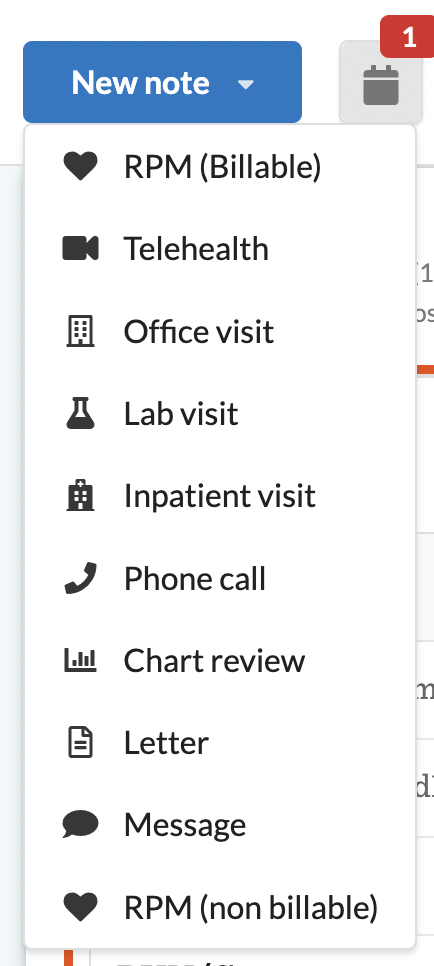
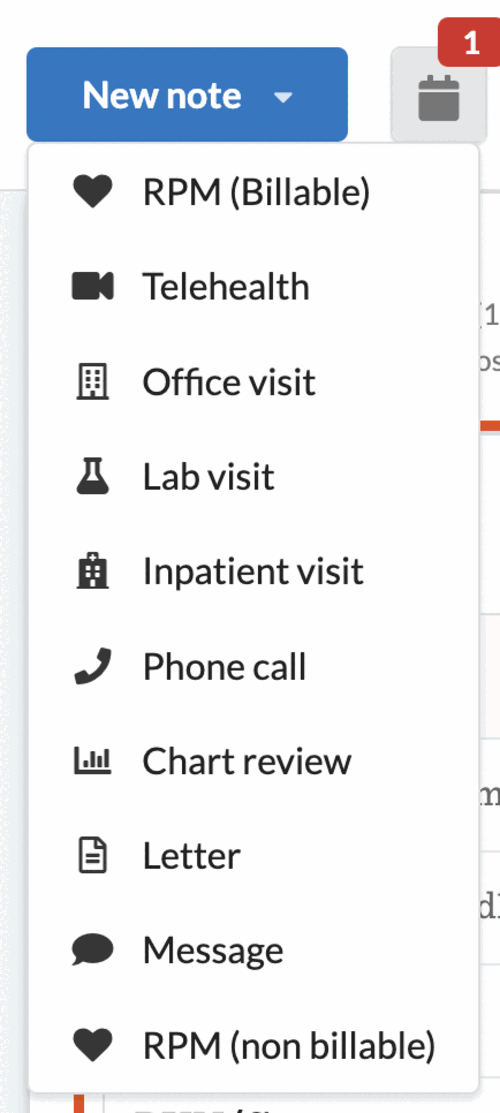
Optimize large images - reduce sizes by 88.5%

diff --git a/config/webpack.prod.js b/config/webpack.prod.js
@@ -27,6 +27,12 @@ module.exports = Merge(CommonConfig, {
       minimize: true,
       debug: false,
     }),
-    new ImageminPlugin({ test: /\.(jpe?g|png|gif|svg)$/i }),
+    new ImageminPlugin({ 
+      test: /\.(jpe?g|png|gif|svg)$/i,
+      optipng: { optimizationLevel: 5 },
+      gifsicle: { optimizationLevel: 3, interlaced: false },
+      mozjpeg: { progressive: true, quality: 80 },
+      svgo: { plugins: [{ removeViewBox: false }] }
+    }),
   ],
 });
